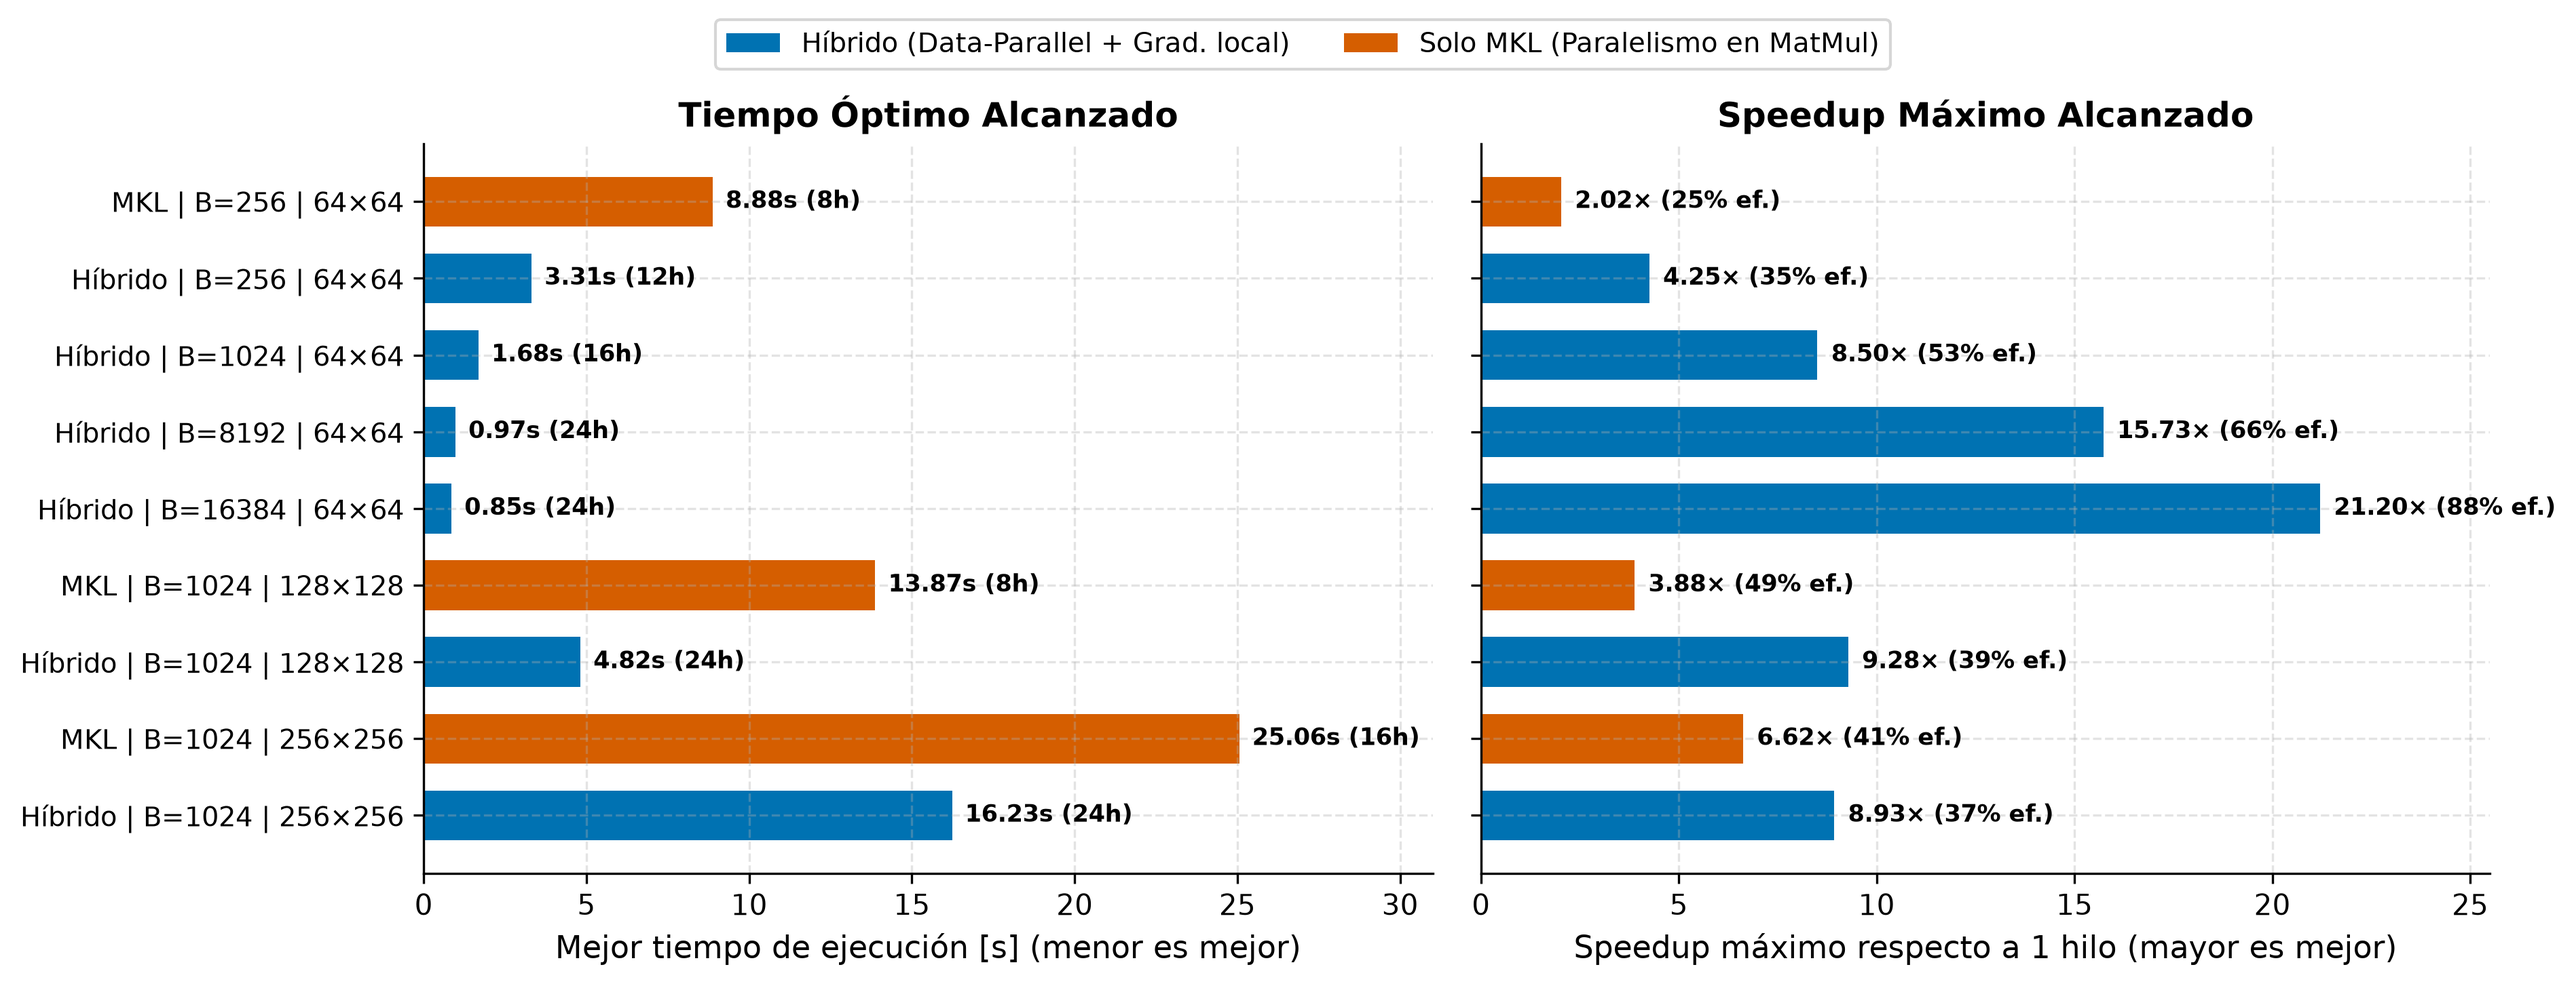
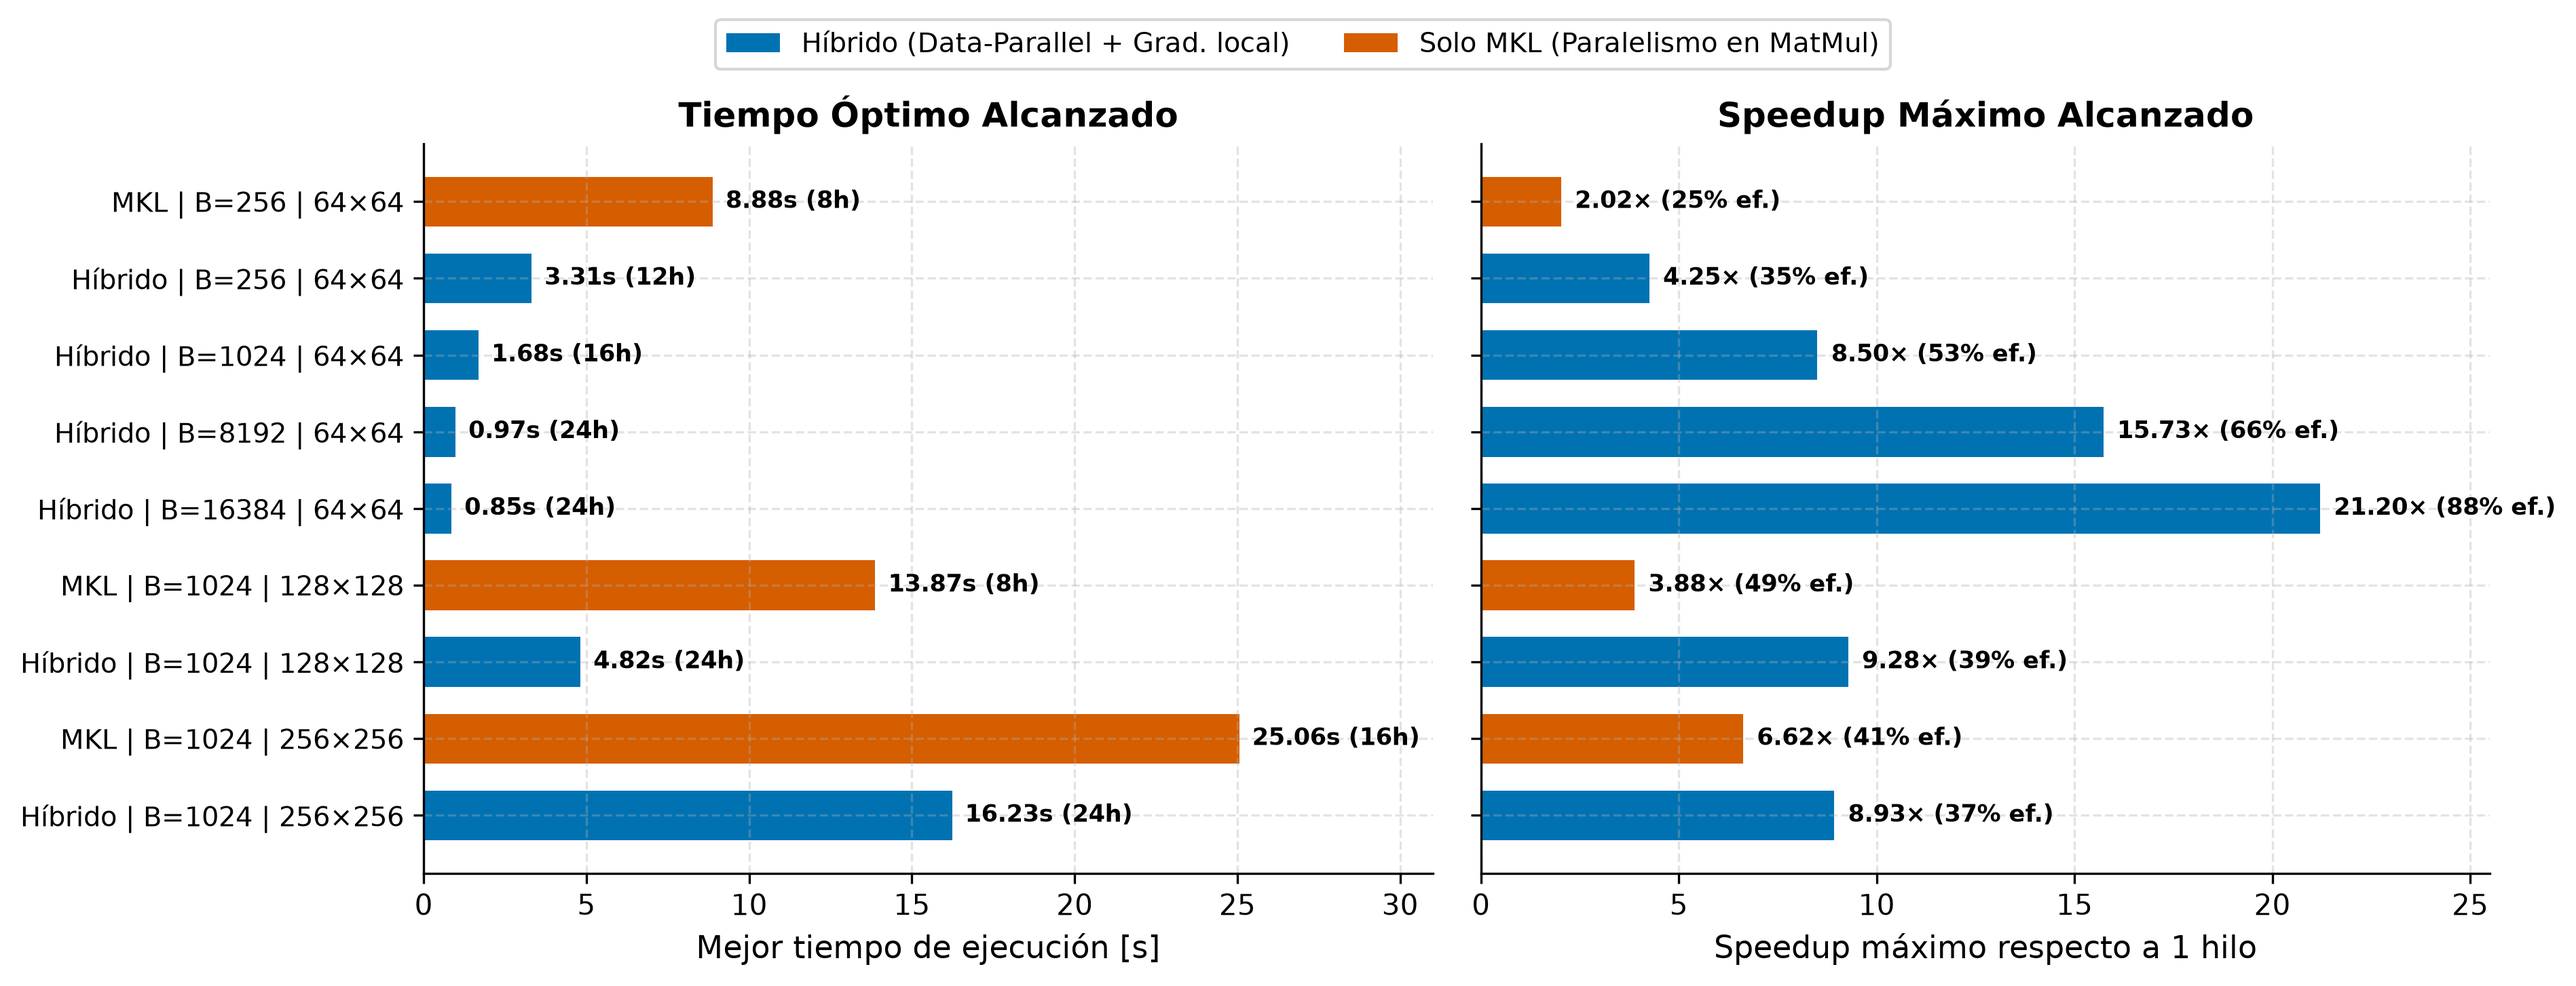
el niuton cocinó

Changed region(s): [[0.6219, 0.9285, 0.9328, 0.9904], [0.2177, 0.9285, 0.4975, 0.9904]]

diff --git a/grafica_2/1.py b/grafica_2/1.py
@@ -212,14 +212,14 @@ y_pos = np.arange(len(sum_plot))
 bars1 = ax1.barh(y_pos, sum_plot['mejor_t'], color=colors_bar, height=0.65)
 ax1.set_yticks(y_pos)
 ax1.set_yticklabels(sum_plot['etiqueta'], fontsize=9.5)
-ax1.set_xlabel('Mejor tiempo de ejecución [s] (menor es mejor)')
+ax1.set_xlabel('Mejor tiempo de ejecución [s]')
 ax1.set_title('Tiempo Óptimo Alcanzado')
 ax1.set_xlim(0, 31)
 for bar, (_, r) in zip(bars1, sum_plot.iterrows()):
     ax1.text(bar.get_width() + 0.4, bar.get_y() + bar.get_height()/2, f"{r['mejor_t']:.2f}s ({r['hilos_opt']}h)", va='center', fontsize=8.5, fontweight='bold')
 
 bars2 = ax2.barh(y_pos, sum_plot['speedup_max'], color=colors_bar, height=0.65)
-ax2.set_xlabel('Speedup máximo respecto a 1 hilo (mayor es mejor)')
+ax2.set_xlabel('Speedup máximo respecto a 1 hilo')
 ax2.set_title('Speedup Máximo Alcanzado')
 ax2.set_xlim(0, 25.5)
 for bar, (_, r) in zip(bars2, sum_plot.iterrows()):
